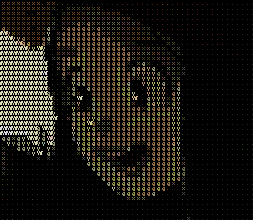
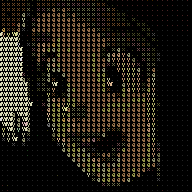
w

diff --git a/index.html b/index.html
@@ -8,18 +8,17 @@
 </head>
 <body>
 
-<h1>hi</h1>
-<p>I'm Noten </p>
 
-<img src="https://images.unsplash.com/
-photo-1622322062536-895d869b09ff?
-ixid=MnwxMjA3fDB8MHxwaG90by1wYWdlfHx8f
-GVufDB8fHx8&ixlib=rb-1.2.1&auto=format&fi
-t=crop&w=1500&q=80" 
-alt="a">
+    <body> <img style = position:relative;left:-19px;top:160px; src="pfp2.png" alt="a" >    </body>
+    
+    
+    <h1> hi</h1> 
+    <p>I'm Noten </p>
+    
 
-<div id="circle"></div>
-<span class="dot"></span>
+
+
+
 
 </body>
 </html>

diff --git a/style.css b/style.css
@@ -8,13 +8,12 @@ body {
   }
   p{ 
     color:navajowhite;
-    size-adjust: 20;
   }
   img{
-    width: 200px;
-    height: 200px;
-    border-radius: 50%;
-    }
+    width: 192px;
+    height: 192px;
+    border-radius: 50%; 
+}
       
 
   
